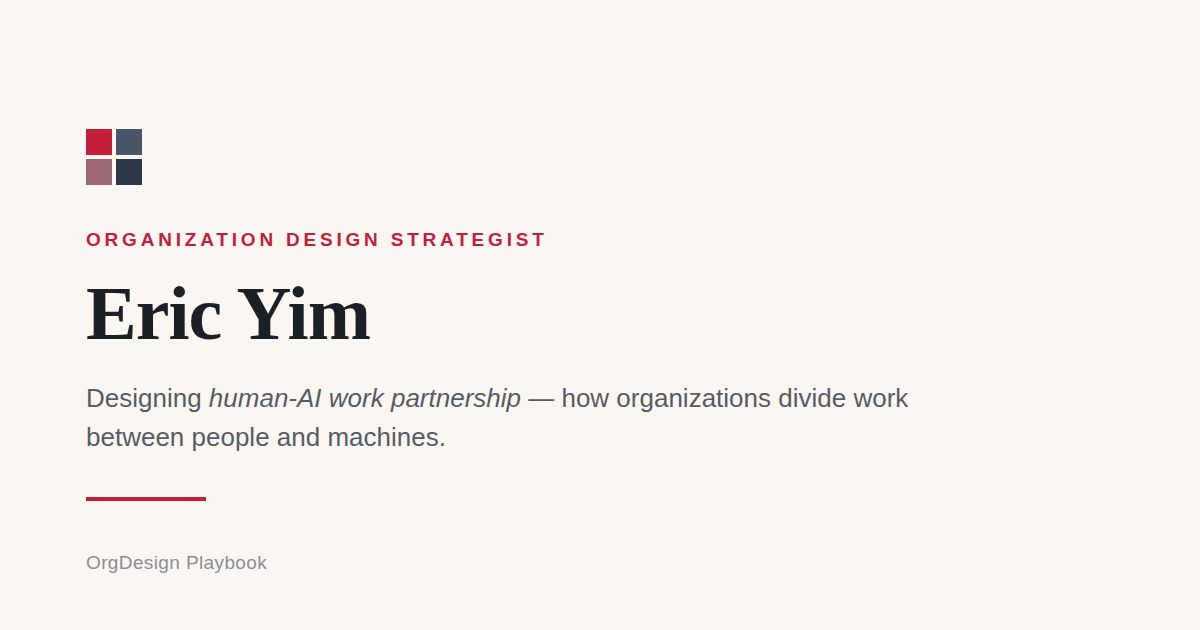
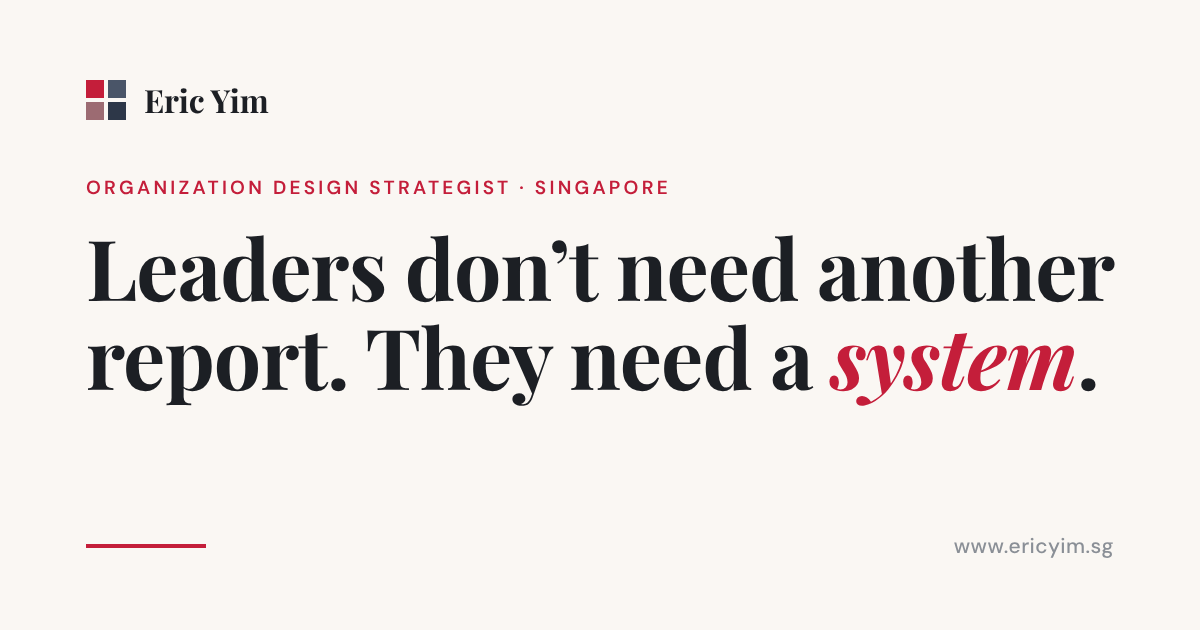
feat(seo): refresh the share card to the new positioning, in the real brand fonts
LinkedIn is where senior executives will meet this site, and the share card is
what they see first. The old card rendered "Eric Yim" in a fallback Times-like
serif rather than Playfair Display, and still named the OrgDesign Playbook.

The new card carries the hero thesis — "Leaders don't need another report. They
need a system." — with the name, title and canonical host. It is rendered from
HTML using the live design tokens: no AI imagery and no likeness. The thesis is
set at 84px because LinkedIn shows the card at about 550px wide in the feed.

The card's source and renderer now live in scripts/og/ (`npm run og:render`),
outside the build, so the card can be regenerated when the wording changes.
The renderer refuses to write an image if the brand fonts did not load: the
defect it fixes cannot come back silently.

og:image:alt, the new twitter:image:alt and the ImageObject caption now
describe what the card actually says, and a test keeps all three identical.
Phase 4 gate held and now tested on the file itself: exactly 1200x630 PNG,
55 KB, well under 1 MB.

Claude-Session: https://claude.ai/code/session_014qf3MZEPjpMkcvq1vUaEZ3

diff --git a/scripts/og/card.html b/scripts/og/card.html
@@ -1,0 +1,46 @@
+<!doctype html>
+<html lang="en">
+<head>
+<meta charset="utf-8">
+<link rel="stylesheet" href="https://fonts.googleapis.com/css2?family=Playfair+Display:ital,wght@0,700;1,700&family=DM+Sans:wght@500;600&display=block">
+<style>
+  /* Tokens mirror src/index.css exactly: paper, ink, secondary, faint, hairline, primary, quadrants */
+  :root{
+    --paper:#FAF7F3; --ink:#1C1F24; --secondary:#575C63; --faint:#8A8F96;
+    --hairline:#E7E0D8; --primary:#C41E3A;
+    --q-structure:#C41E3A; --q-people:#4A5568; --q-process:#2D3748; --q-mindset:#9C6B72;
+  }
+  *{margin:0;box-sizing:border-box}
+  html,body{width:1200px;height:630px;background:var(--paper);overflow:hidden}
+  body{font-family:'DM Sans',system-ui,sans-serif;color:var(--ink);position:relative}
+  .card{position:absolute;inset:0;padding:78px 86px 70px;display:flex;flex-direction:column}
+  .top{display:flex;align-items:center;gap:18px}
+  .mark{display:grid;grid-template-columns:1fr 1fr;gap:4px;width:40px;height:40px;flex-shrink:0}
+  .mark span:nth-child(1){background:var(--q-structure)}
+  .mark span:nth-child(2){background:var(--q-people)}
+  .mark span:nth-child(3){background:var(--q-mindset)}
+  .mark span:nth-child(4){background:var(--q-process)}
+  .name{font-family:'Playfair Display',Georgia,serif;font-weight:700;font-size:32px;letter-spacing:-.2px}
+  .eyebrow{margin-top:54px;color:var(--primary);font-weight:600;font-size:19px;letter-spacing:.17em;text-transform:uppercase}
+  h1{margin-top:22px;font-family:'Playfair Display',Georgia,serif;font-weight:700;font-size:84px;line-height:1.06;letter-spacing:-1px;max-width:1040px}
+  h1 em{color:var(--primary);font-style:italic}
+  .foot{margin-top:auto;display:flex;align-items:center;justify-content:space-between}
+  .rule{width:120px;height:4px;background:var(--primary)}
+  .url{color:var(--faint);font-weight:500;font-size:21px;letter-spacing:.02em}
+</style>
+</head>
+<body>
+  <div class="card">
+    <div class="top">
+      <div class="mark" aria-hidden="true"><span></span><span></span><span></span><span></span></div>
+      <div class="name">Eric Yim</div>
+    </div>
+    <p class="eyebrow">Organization design strategist · Singapore</p>
+    <h1>Leaders don’t need another report. They need a <em>system</em>.</h1>
+    <div class="foot">
+      <div class="rule"></div>
+      <div class="url">www.ericyim.sg</div>
+    </div>
+  </div>
+</body>
+</html>

diff --git a/index.html b/index.html
@@ -30,7 +30,7 @@
     <meta property="og:image" content="https://www.ericyim.sg/og-image.png" />
     <meta property="og:image:width" content="1200" />
     <meta property="og:image:height" content="630" />
-    <meta property="og:image:alt" content="Eric Yim — Organization Design Strategist, specializing in human-AI work partnership" />
+    <meta property="og:image:alt" content="Eric Yim, organization design strategist, Singapore: Leaders don’t need another report. They need a system." />
     <meta property="profile:first_name" content="Eric" />
     <meta property="profile:last_name" content="Yim" />
 
@@ -39,6 +39,7 @@
     <meta name="twitter:title" content="Eric Yim — Organization Design Strategist | Human-AI Work Partnership" />
     <meta name="twitter:description" content="Eric Yim is an organization design strategist specializing in human-AI work partnership: how organizations divide work between people and machines." />
     <meta name="twitter:image" content="https://www.ericyim.sg/og-image.png" />
+    <meta name="twitter:image:alt" content="Eric Yim, organization design strategist, Singapore: Leaders don’t need another report. They need a system." />
 
     <!--
       Structured data for search and answer engines (GEO/AEO).
@@ -196,7 +197,7 @@
             "url": "https://www.ericyim.sg/og-image.png",
             "width": 1200,
             "height": 630,
-            "caption": "Eric Yim — Organization Design Strategist, specializing in human-AI work partnership"
+            "caption": "Eric Yim, organization design strategist, Singapore: Leaders don’t need another report. They need a system."
           },
           {
             "@type": "WebSite",

diff --git a/src/__tests__/aeo-approach.test.tsx b/src/__tests__/aeo-approach.test.tsx
@@ -106,3 +106,33 @@ describe('llms.txt carries the new content', () => {
     differenceCategories.forEach((c) => expect(llms).toContain(c.definition));
   });
 });
+
+describe('Share card (Phase 4 gate, kept true after the refresh)', () => {
+  const png = readFileSync(join(ROOT, 'public', 'og-image.png'));
+
+  test('is a PNG of exactly 1200x630 and under 1 MB', () => {
+    expect(png.subarray(1, 4).toString('ascii')).toBe('PNG');
+    expect(png.readUInt32BE(16)).toBe(1200);
+    expect(png.readUInt32BE(20)).toBe(630);
+    expect(png.length).toBeLessThan(1024 * 1024);
+  });
+
+  test('alt text is identical across og, twitter and the ImageObject caption', () => {
+    const og = html.match(/<meta property="og:image:alt" content="([^"]*)"/)![1];
+    const tw = html.match(/<meta name="twitter:image:alt" content="([^"]*)"/)![1];
+    expect(tw).toBe(og);
+    expect(nodeOfType('ImageObject').caption).toBe(og);
+    // and it describes what the card actually says
+    expect(og).toContain(profile.name);
+    expect(og).toMatch(/They need a system\./);
+  });
+
+  test('the card source mirrors the live design tokens', () => {
+    const card = readFileSync(join(ROOT, 'scripts', 'og', 'card.html'), 'utf8');
+    const css = readFileSync(join(ROOT, 'src', 'index.css'), 'utf8');
+    const token = (name: string) => css.match(new RegExp(`--color-${name}:\\s*(#[0-9A-Fa-f]{6})`))![1].toUpperCase();
+    expect(card.toUpperCase()).toContain(`--PAPER:${token('paper')}`);
+    expect(card.toUpperCase()).toContain(`--INK:${token('ink')}`);
+    expect(card.toUpperCase()).toContain(`--PRIMARY:${token('primary')}`);
+  });
+});
